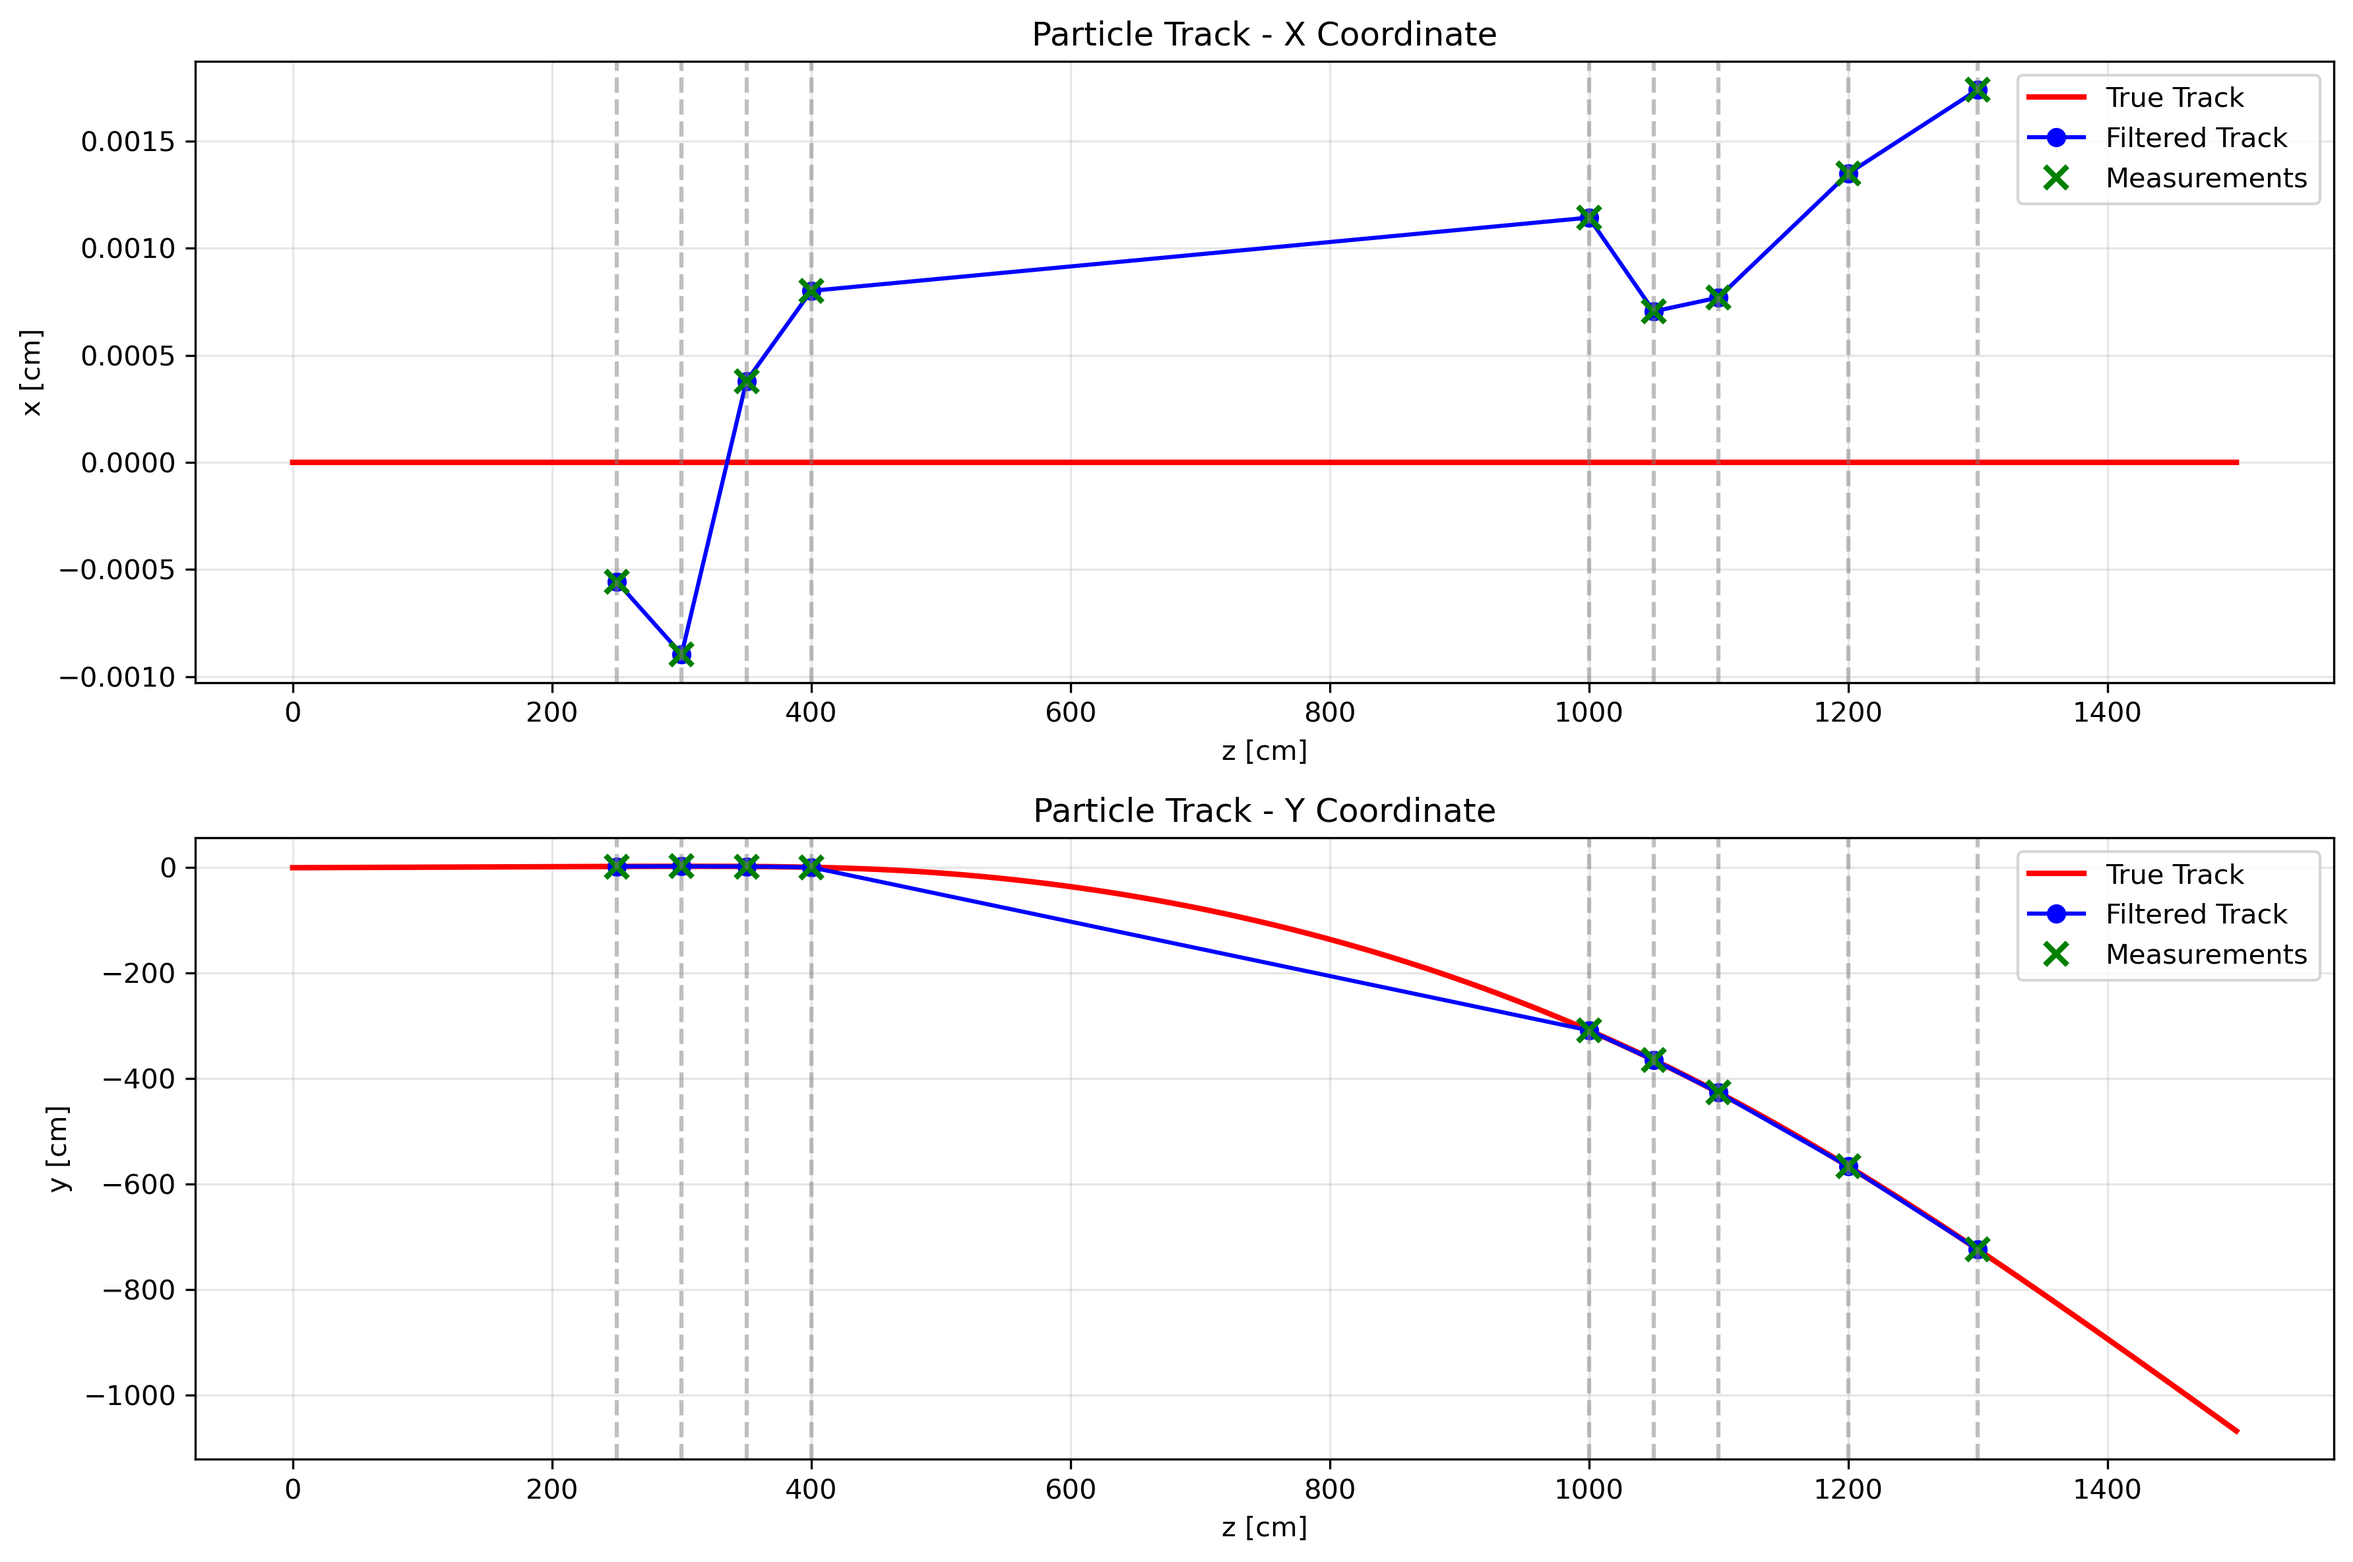
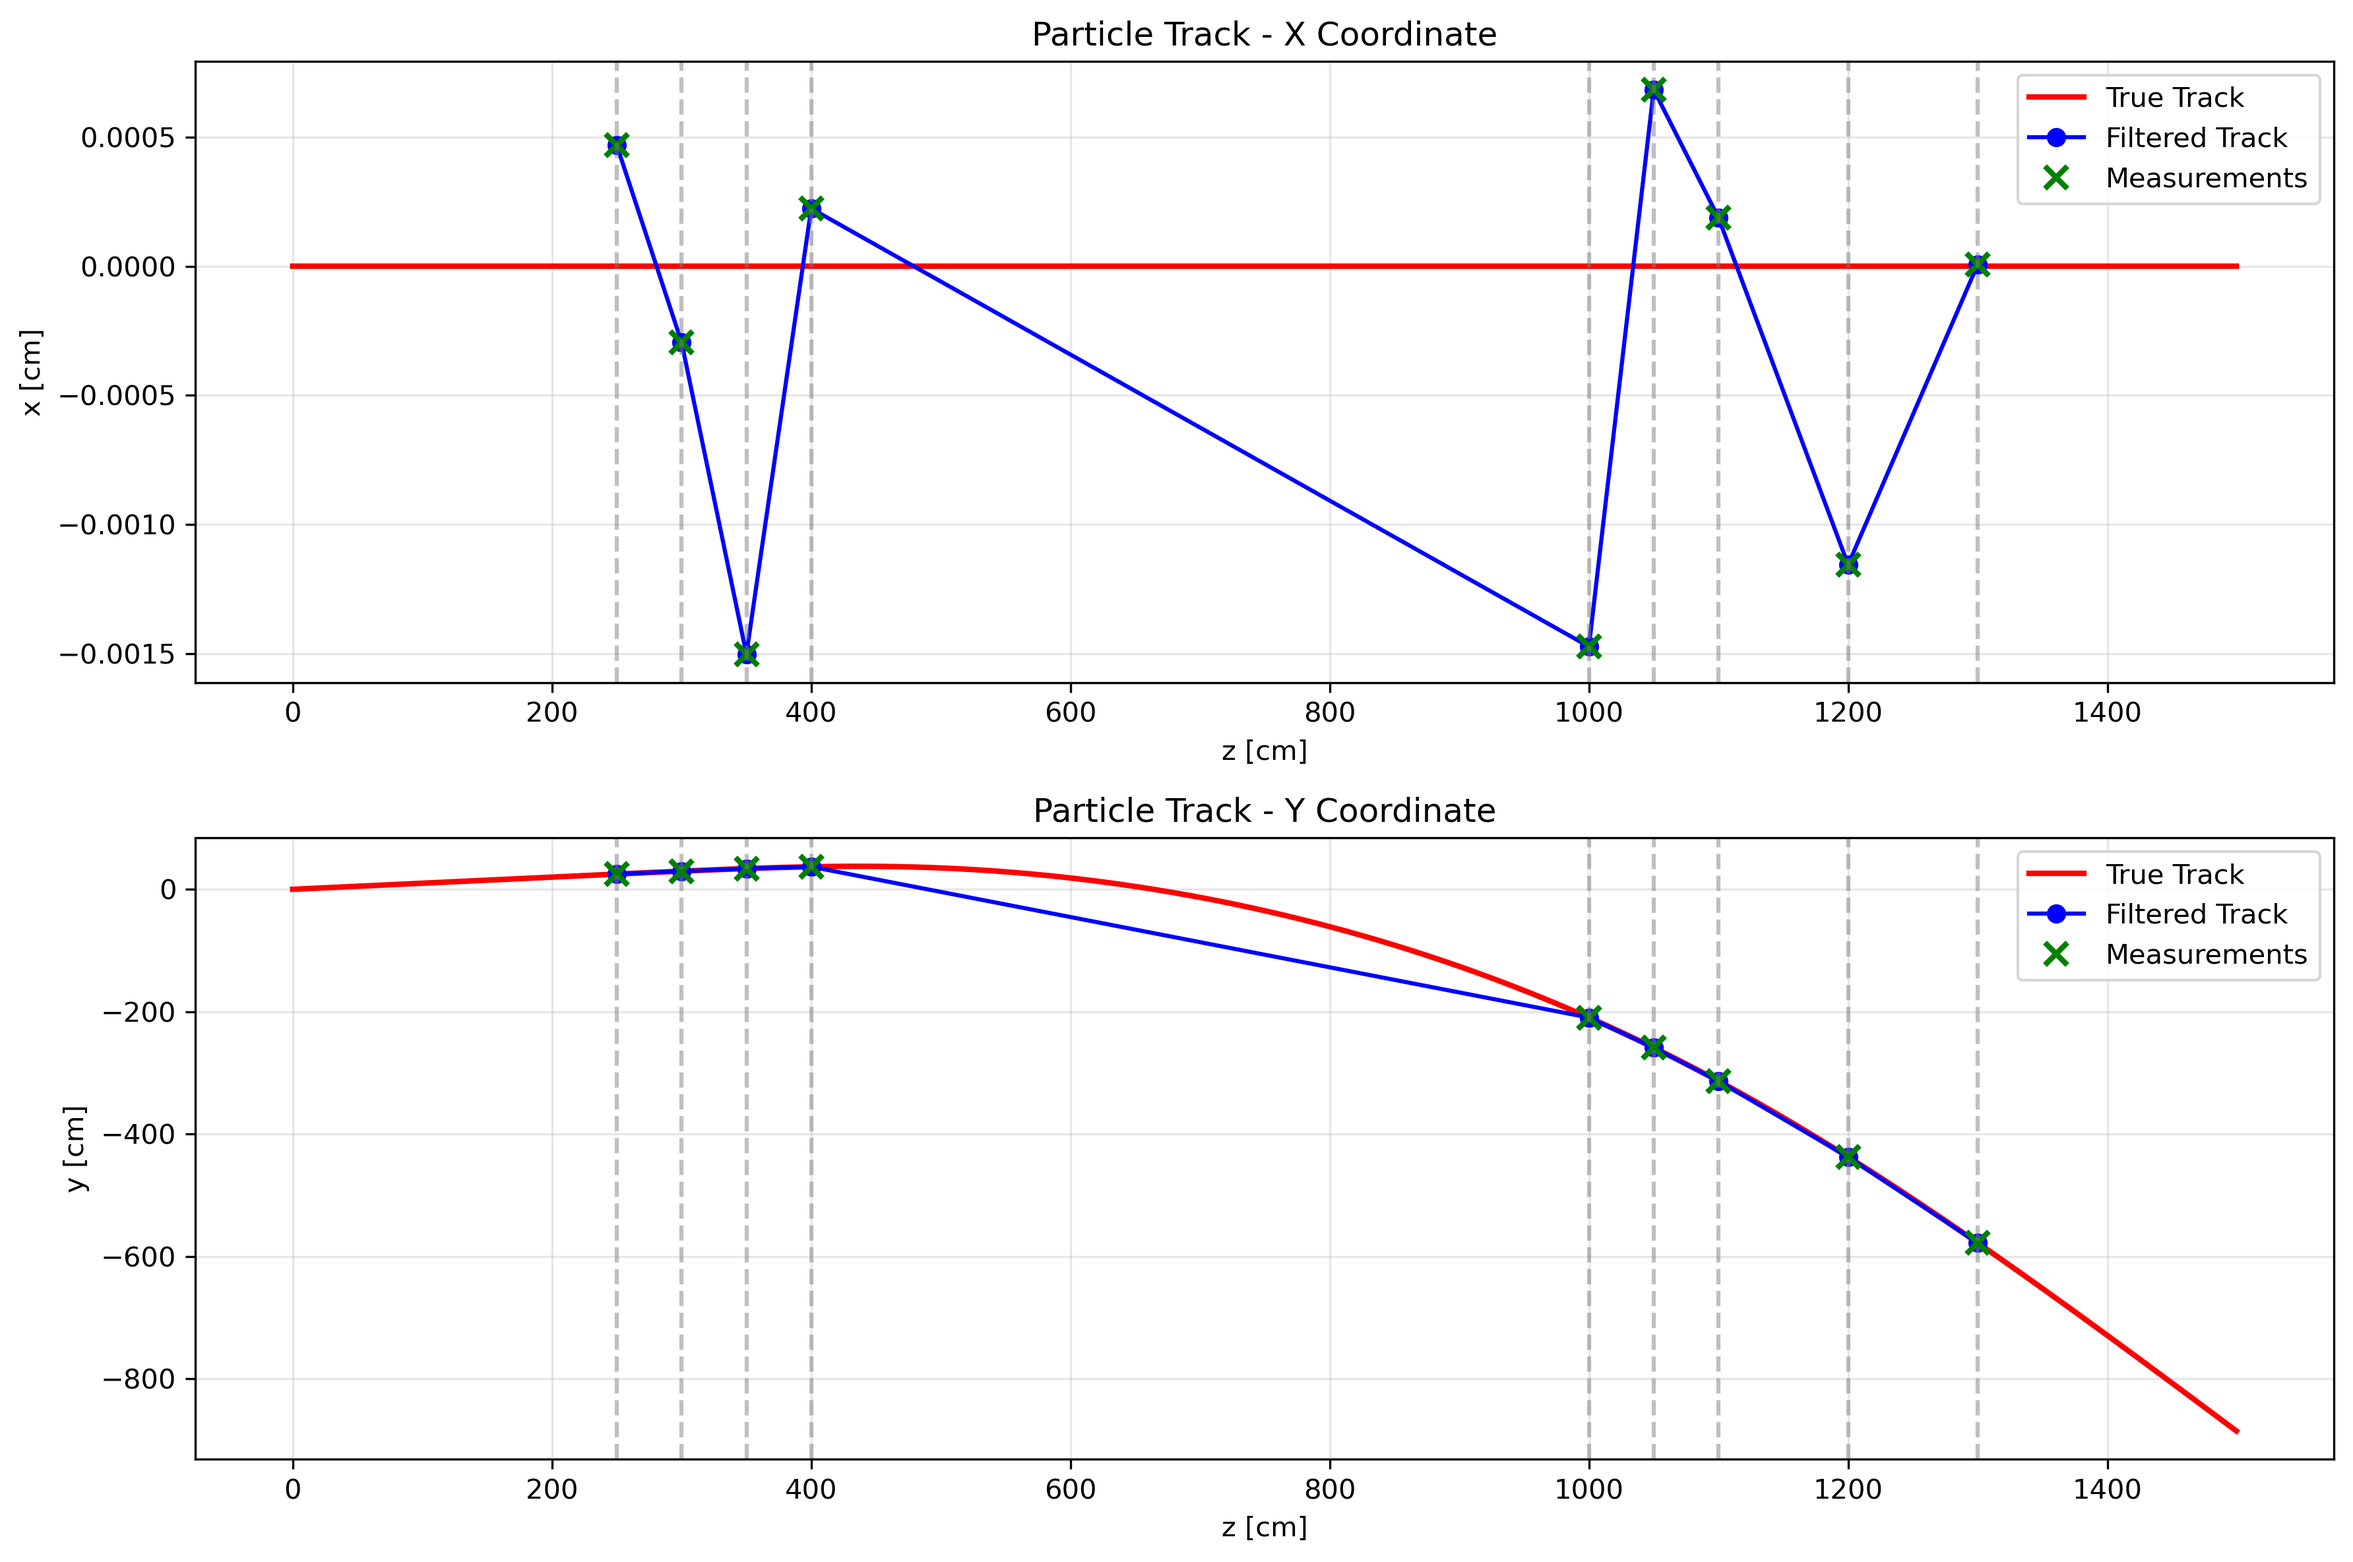
final corrections

diff --git a/codes/Filter.py b/codes/Filter.py
@@ -131,9 +131,6 @@ class KalmanFilter:
         best_cov = smoothedCovariances[closest_to_origin_idx].copy()
         start_z = measurement_z_positions[closest_to_origin_idx]
         
-        print(f"Using smoothed state from measurement {closest_to_origin_idx} at z={start_z:.1f} cm (closest to origin)")
-        print(f"Initial state at z={start_z:.1f}: x={best_state[0]:.3f}, y={best_state[1]:.3f}, q/p={best_state[4]:.6f}")
-        
         # Initialize extrapolation
         currentState = best_state.copy()
         currentCovMat = best_cov.copy()
@@ -149,7 +146,6 @@ class KalmanFilter:
         else:
             adaptive_step = min(originalstep, total_distance / 20)   # At least 20 steps
         
-        print(f"Extrapolating {total_distance:.1f} cm to origin with step size {adaptive_step:.3f} cm")
         
         # Extrapolation loop
         iteration = 0
@@ -162,9 +158,8 @@ class KalmanFilter:
             
             # Prevent tiny steps that cause numerical issues
             if abs(step_size) < 1e-9:
-                print(f"Step size too small ({abs(step_size):.2e}), stopping extrapolation")
                 break
-            
+
             try:
                 # Propagate one step towards origin
                 currentState, currentCovMat, _ = self.propagator.RK4Propagator(
@@ -173,35 +168,10 @@ class KalmanFilter:
                 currentZ += step_size
                 iteration += 1
                 
-                # Progress reporting every 1000 steps
-                if iteration % 1000 == 0:
-                    print(f"  Step {iteration}: z = {currentZ:.3f} cm, x = {currentState[0]:.3f} cm")
-                    
             except Exception as e:
                 print(f"Extrapolation failed at z={currentZ:.3f} after {iteration} steps: {e}")
                 print("Using last valid state")
                 break
-        
-        # Final results
-        origin_qp = currentState[4]  # [e/MeV] from Setup.py
-        p_magnitude_MeV = 1.0 / abs(origin_qp) if origin_qp != 0 else None
-        p_magnitude_GeV = p_magnitude_MeV / 1000.0 if p_magnitude_MeV else None
-        
-        print(f"\nExtrapolation completed:")
-        print(f"  Steps taken: {iteration}")
-        print(f"  Final z position: {currentZ:.6f} cm")
-        print(f"  Position at origin: ({currentState[0]:.3f}, {currentState[1]:.3f}) cm")
-        print(f"  q/p at origin: {origin_qp:.6f} e/MeV")
-        if p_magnitude_GeV:
-            print(f"  Momentum magnitude: {p_magnitude_GeV:.3f} GeV/c")
-        
-        # Calculate uncertainty at origin
-        position_uncertainty = np.sqrt(currentCovMat[0,0] + currentCovMat[1,1])
-        momentum_uncertainty = abs(origin_qp) * np.sqrt(currentCovMat[4,4]) / (origin_qp**2) / 1000.0 if origin_qp != 0 else None
-        
-        print(f"  Position uncertainty: ±{position_uncertainty:.3f} cm")
-        if momentum_uncertainty:
-            print(f"  Momentum uncertainty: ±{momentum_uncertainty:.3f} GeV/c")
         
         return currentState, currentCovMat
 

diff --git a/codes/main.py b/codes/main.py
@@ -77,7 +77,7 @@ def run_tracking_simulation():
     )
     
     # Initialize particle
-    momentum = np.array([0.0, 0.01, 1])  # GeV/c in x, y, z
+    momentum = np.array([0.0, 0.1, 1])  # GeV/c in x, y, z
     position = np.array([0.0, 0.0])       # cm, starting position
 
     initialState, initialCovMat = init_state(momentum, position)
@@ -127,6 +127,9 @@ def run_tracking_simulation():
     print(f"Reconstructed q/p at origin: {originState[4]:.6f} e/GeV")
     print(f"Reconstructed momentum: {1e-3/abs(originState[4]):.3f} GeV/c")
     print(f"Position at origin: ({originState[0]:.3f}, {originState[1]:.3f}) cm")
+
+
+
 
 
 if __name__ == "__main__":
